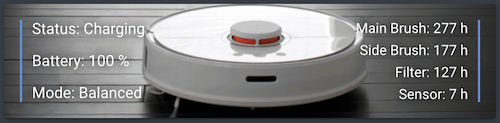
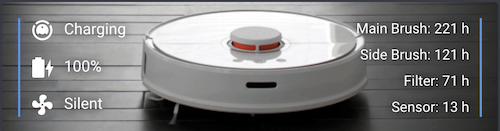
Update example screenshots

diff --git a/README.md b/README.md
@@ -88,17 +88,11 @@ If you want any other vendors to be added, feel free to open an issue or contrib
 
 ![xiaomi-vacuum-card](https://raw.githubusercontent.com/benct/lovelace-xiaomi-vacuum-card/master/examples/default.png)
 
-Hidden title/name
-
 ![xiaomi-vacuum-card-no-title](https://raw.githubusercontent.com/benct/lovelace-xiaomi-vacuum-card/master/examples/no-title.png)
 
-Hidden button row
+![xiaomi-vacuum-card-image](https://raw.githubusercontent.com/benct/lovelace-xiaomi-vacuum-card/master/examples/with-image.png)
 
 ![xiaomi-vacuum-card-no-buttons](https://raw.githubusercontent.com/benct/lovelace-xiaomi-vacuum-card/master/examples/no-buttons.png)
-
-No background image
-
-![xiaomi-vacuum-card-no-background](https://raw.githubusercontent.com/benct/lovelace-xiaomi-vacuum-card/master/examples/no-background.png)
 
 ## Examples
 
